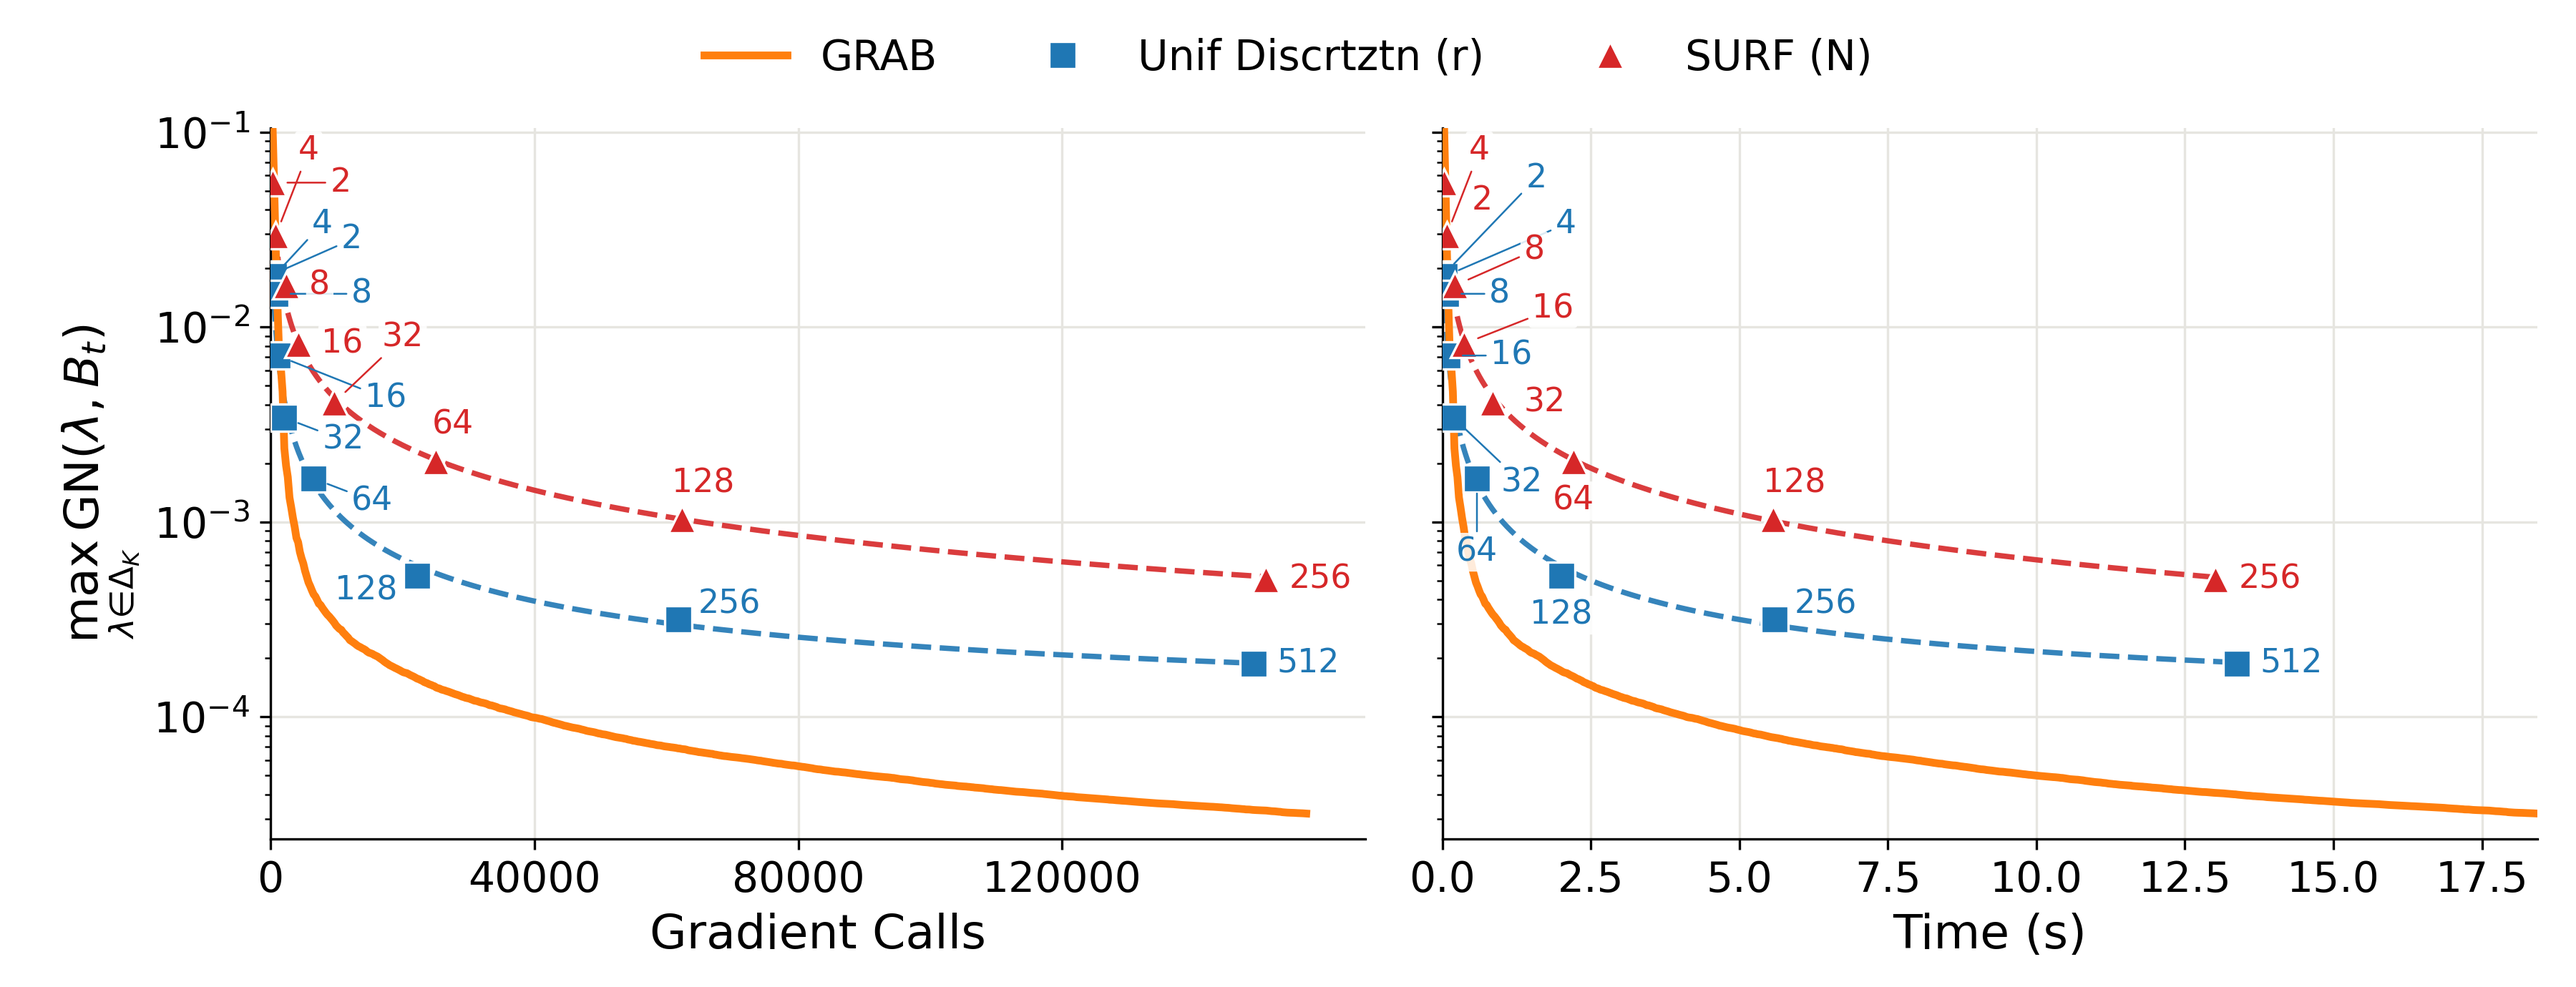
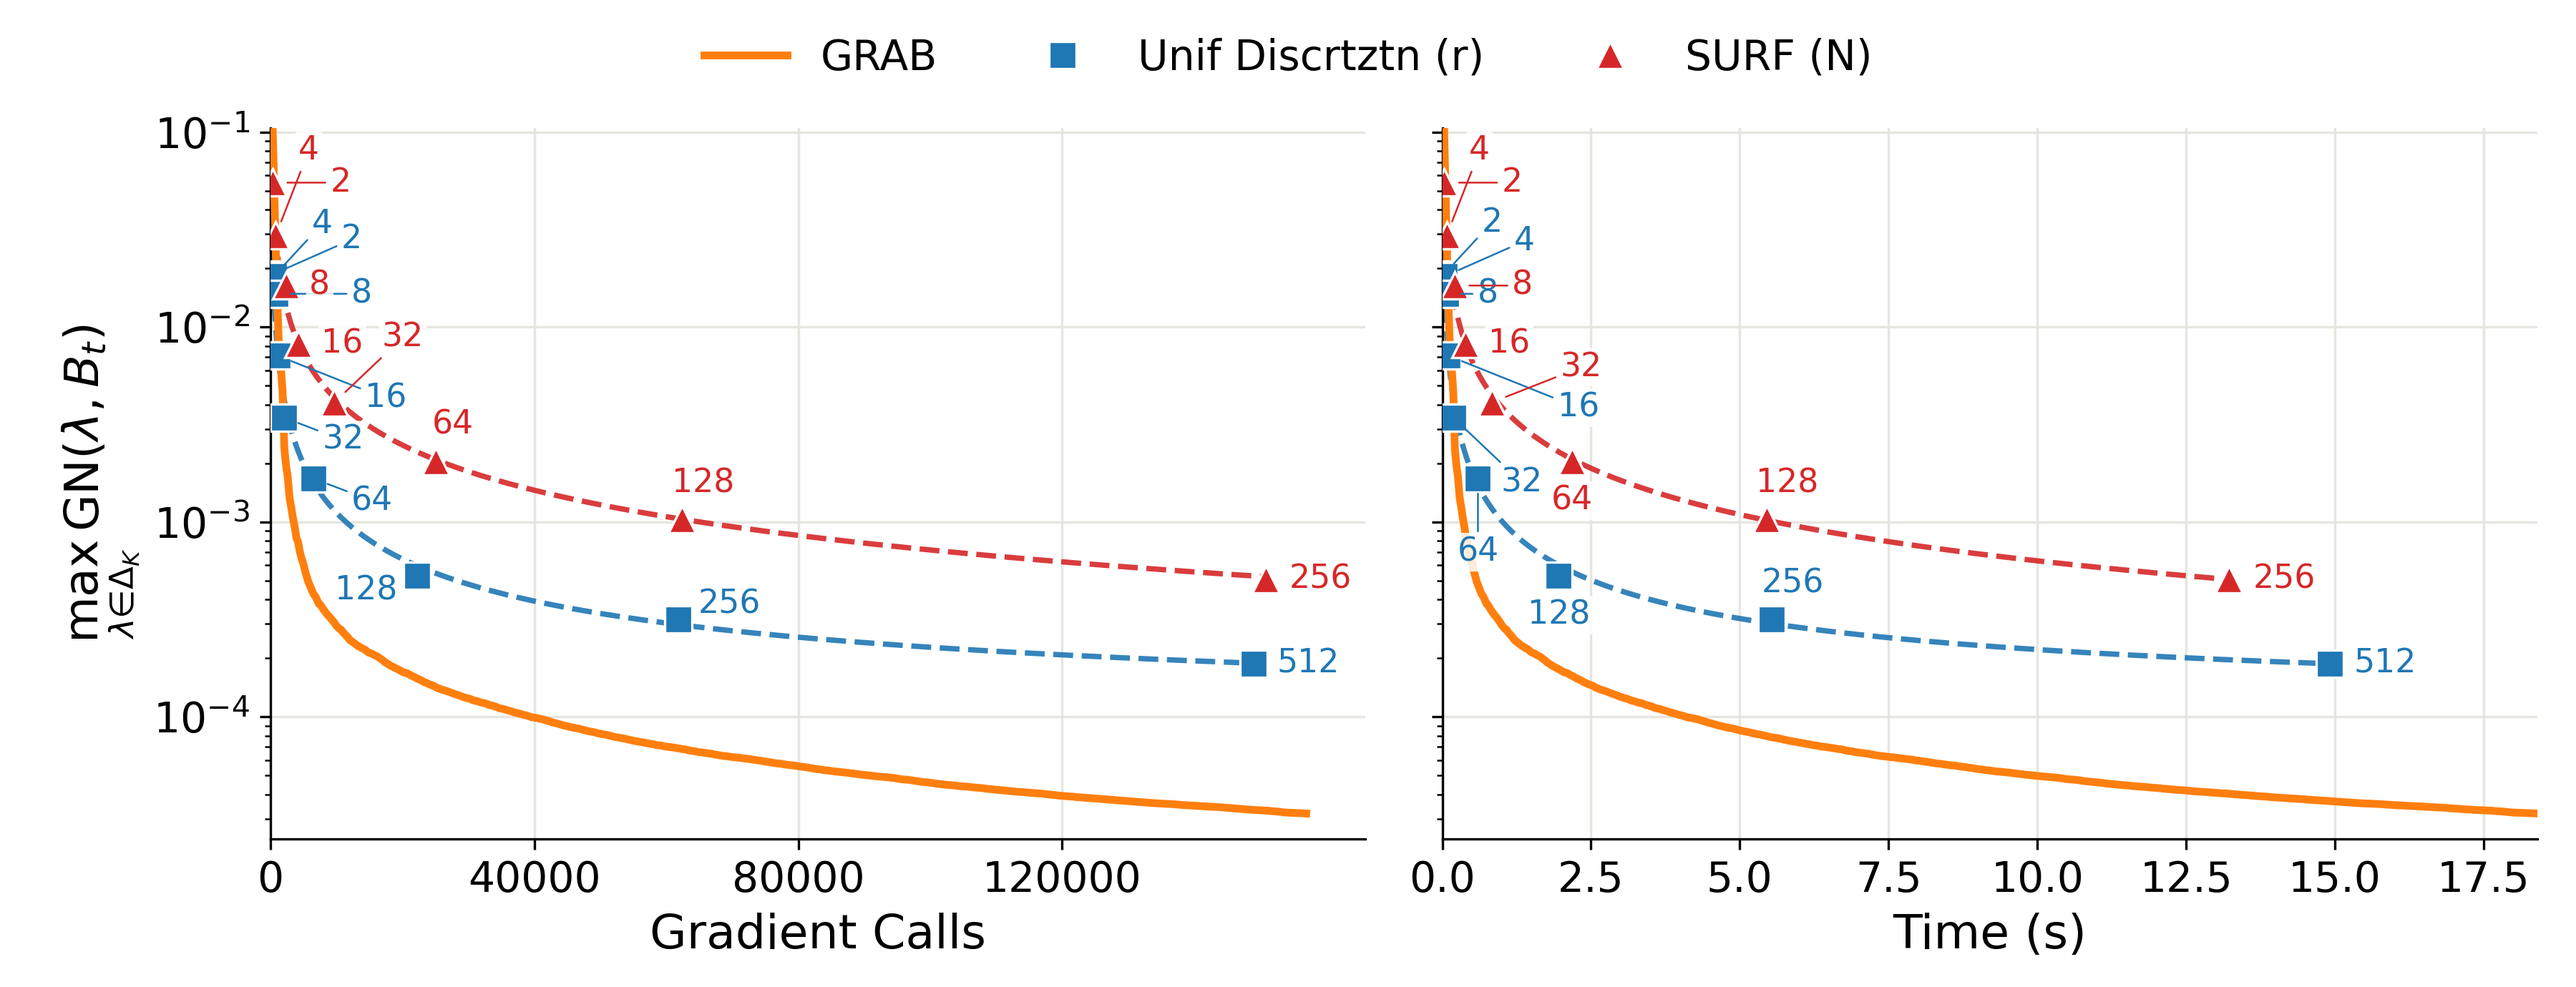
Code hash without comments and docstrings; relaxed-LP stopping described as heuristic; rerun
- identity.code_sha256: SHA-256 of a module's syntax tree without docstrings (comments excluded), used for the
  source hash of stored runs and for the evaluator hash; editing comments or docstrings no longer invalidates runs.
- lambda_solvers: with relaxed LPs, the predicted improvement is evaluated at the working-set maximizer over all
  rows, so it is at most the exact one and the CCP stopping test is a heuristic (the docstring said the opposite).
- bounds / README: the upper bound is valid in exact arithmetic; 1 + 1e-9 is a safeguard against rounding.
- make_bounds_grid: GRAB's step line ends at the last baseline checkpoint (no backward segment at the right end).
- Full rerun: Gradient Calls, GN, selected weights and arrays identical to the previous runs; new single-timed CPU
  times; figures and README numbers updated.

diff --git a/mogym/lambda_solvers.py b/mogym/lambda_solvers.py
@@ -18,10 +18,11 @@ lp_options; the defaults are used everywhere else, e.g. by the reported metric):
   warm_cg   constraint generation starts from the rows of the previous LP whose slacks were nonbasic, with their
             basis statuses (the other rows basic), instead of a cold start; the result is again an optimum;
   relaxed   constraint generation solves the LP on its initial working set only, without checking or adding the
-            other rows.  This is a relaxation: its maximizer need not be optimal for the full LP and its value is at
-            least the full optimum, so a predicted improvement computed from it is at least the exact one; its dual,
-            extended by zeros, still gives a valid upper bound (Proposition 9).  Values are always evaluated
-            exactly on every row.
+            other rows.  This is a relaxation: its maximizer need not be optimal for the full LP, and its dual,
+            extended by zeros, still gives a valid upper bound (Proposition 9).  The returned value is
+            min_i (M lambda)_i at that maximizer over all rows, which is at most the full optimum; a predicted
+            improvement computed from it is therefore at most the exact one, and the CCP stopping test becomes a
+            heuristic that may stop early.  Values are always evaluated exactly on every row.
 """
 import warnings
 from contextlib import contextmanager
@@ -345,7 +346,8 @@ def lp(M, return_dual_bound=False):
 def ccp_ascent(qs, w, maxiter, tau=1e-8):
     """CCP steps from w (Algorithm 2, inner loop): the LP for val(M^c) of the linearizations at the current
     point, then a move to its maximizer, until the predicted improvement delta_c <= tau max{1, phi} or after maxiter
-    LPs.  With exact LPs phi does not decrease; with relaxed LPs (lp_options) a step that lowers phi ends the start.
+    LPs.  With exact LPs phi does not decrease; with relaxed LPs (lp_options) the improvement is computed at the
+    working-set maximizer and is at most delta_c, and a step that lowers phi ends the start.
     Returns (last point, largest phi seen after a step, the point where it was seen, number of LPs)."""
     best, wb = -np.inf, None
     w = np.array(w, float)

diff --git a/mogym/identity.py b/mogym/identity.py
@@ -1,10 +1,11 @@
 """Identity of a stored run: what it was computed from.
 
 A run file records the settings it was started with (`run_spec`, written by the run scripts), the SHA-256 of the
-package source, the package versions, the SHA-256 of the MDP model and the SHA-256 of its .npz arrays.  The run
+package source (its code without comments and docstrings), the package versions, the SHA-256 of the MDP model and the SHA-256 of its .npz arrays.  The run
 scripts reuse a stored run only if all of these match the current ones and the arrays are intact; otherwise they
 stop with an error instead of silently skipping or overwriting.
 """
+import ast
 import hashlib
 import json
 import subprocess
@@ -26,10 +27,22 @@ def file_sha256(path):
     return sha256_bytes(Path(path).read_bytes())
 
 
+def code_sha256(path):
+    """SHA-256 of the code of a Python file: its syntax tree without docstrings (comments are not part of it), so
+    that editing comments or docstrings leaves it unchanged."""
+    tree = ast.parse(Path(path).read_text())
+    for node in ast.walk(tree):
+        if isinstance(node, (ast.Module, ast.ClassDef, ast.FunctionDef, ast.AsyncFunctionDef)) and node.body \
+                and isinstance(node.body[0], ast.Expr) and isinstance(node.body[0].value, ast.Constant) \
+                and isinstance(node.body[0].value.value, str):
+            node.body = node.body[1:] or [ast.Pass()]
+    return sha256_bytes(ast.dump(tree, include_attributes=False).encode())
+
+
 def source_sha256():
     h = hashlib.sha256()
     for f in sorted(PACKAGE.glob("*.py")):
-        h.update(f.name.encode()); h.update(f.read_bytes())
+        h.update(f.name.encode()); h.update(code_sha256(f).encode())
     return h.hexdigest()
 
 

diff --git a/mogym/bounds.py b/mogym/bounds.py
@@ -14,8 +14,9 @@ mogym.metrics) the leaves of largest bound are taken in batches: a leaf bounded 
 n_k, otherwise it is split at the midpoint of its longest edge and both halves are bounded; a leaf keeps the smaller of
 its own bound and its parent's.  The checkpoint stops when the largest bound is at most ((1 + gap) l_k)^2 or its time
 is spent.  Leaves whose bound is at most ((1 + gap) min_k l_k)^2 would never be split again and are dropped.  The
-reported bound is max(sqrt(largest remaining bound), (1 + gap) min_k l_k), times 1 + GUARD against rounding (float64
-Gram matrices, LP duals and vertices); it is non-increasing in k.  The stored leaves are capped; a split adds one
+reported bound is max(sqrt(largest remaining bound), (1 + gap) min_k l_k); it is non-increasing in k.  The construction
+is valid in exact arithmetic; the computations use float64, and the reported bound is multiplied by 1 + GUARD as a
+safeguard against rounding.  The stored leaves are capped; a split adds one
 leaf, so a batch splits at most as many leaves as there are free slots, and a checkpoint stops when nothing is left to
 split or re-bound.
 

diff --git a/mogym/metrics.py b/mogym/metrics.py
@@ -16,7 +16,7 @@ from pathlib import Path
 
 import numpy as np
 
-from . import lambda_solvers as ls
+from . import identity, lambda_solvers as ls
 
 POOL_SEED = 20260910
 POOL_PER_FACE = 500
@@ -42,9 +42,10 @@ def fixed_stratified_weights(K=6, seed=POOL_SEED, per_face=POOL_PER_FACE):
 
 
 def evaluator_sha256():
-    """Fingerprint of the K>2 evaluator: the source of this module and of the LP / CCP code, and the fixed pool."""
-    h = hashlib.sha256(Path(__file__).read_bytes())
-    h.update(Path(ls.__file__).read_bytes())
+    """Fingerprint of the K>2 evaluator: the code of this module and of the LP / CCP code (without comments and
+    docstrings), and the fixed pool."""
+    h = hashlib.sha256(identity.code_sha256(__file__).encode())
+    h.update(identity.code_sha256(ls.__file__).encode())
     h.update(np.ascontiguousarray(fixed_stratified_weights()).tobytes())
     return h.hexdigest()
 

diff --git a/scripts/make_bounds_grid.py b/scripts/make_bounds_grid.py
@@ -63,7 +63,7 @@ for key, xlabel in (("calls", "Gradient Calls"), ("cpu", "Time (s)")):
         x0 = min(x.min(), x_ex.min()) if len(x_ex) else x.min()
         xl, xr = x0 / 1.25, x.max() * 1.1
         g0 = np.flatnonzero(gx[key] <= x0 + 1e-12)[-1]
-        sel = (np.arange(len(curve)) >= g0) & (gx[key] <= x.max() * 1.02)
+        sel = (np.arange(len(curve)) >= g0) & (gx[key] <= x.max() + 1e-12)
         gxs = np.concatenate([[xl], gx[key][sel][1:], [x.max()]]); gys = np.concatenate([gub[sel], [gub[sel][-1]]])
         ax.fill_between(x, ub, lb, where=lb > ub, color=C["ok"], lw=0, zorder=1)
         ax.step(gxs, gys, where="post", color=C["grab"], lw=1.8, zorder=3)

diff --git a/README.md b/README.md
@@ -41,7 +41,7 @@ the finite models; no trajectories are sampled.
 
 The script runs every configuration of both tasks, the Fruit Tree upper bounds and the figures. The runs are serial
 with one numerical thread (about 10 minutes on the machine below, mostly the evaluation of the Uniform runs, which is
-not part of the measured time). The upper bounds are computed afterwards with six processes (about 11 minutes).
+not part of the measured time). The upper bounds are computed afterwards with six processes (about 10 minutes).
 
 Outputs:
 
@@ -80,7 +80,8 @@ python scripts/make_bounds_grid.py fruittree_d6  # K>2: comparison along every U
 The tasks are `fishwood` and `fruittree_d6`; SURF is run for FishWood only.
 
 Each run script accepts `--values` (a subset of r or N) and `--results <dir>`. A stored run is reused only if its
-identity matches: settings, source code, package versions, model and arrays (`mogym/identity.py`); otherwise the
+identity matches: settings, source code (without comments and docstrings), package versions, model and arrays
+(`mogym/identity.py`); otherwise the
 script stops instead of skipping or overwriting the run. The upper bounds are tied in the same way to the arrays of
 the GRAB run, the evaluator and the bound settings, and the figure scripts stop if they do not match.
 `time_repeats.py` reruns every configuration and checks that each repeat reproduces the stored run exactly.
@@ -174,7 +175,9 @@ return a weight with positive GN, so neither the LP certificate nor a global fal
     previous optimum, the 40 smallest at the previous maximizer, the smallest of each column, and the rows of the
     previous LP whose slacks were nonbasic, with their basis statuses), without adding further rows. This is a
     relaxation: its maximizer need not be optimal for the full LP, but its dual still gives a valid upper bound, and φ
-    is always evaluated exactly on every bundle point; a CCP step that lowers φ ends the run.
+    is always evaluated exactly on every bundle point; a CCP step that lowers φ ends the run. The predicted improvement
+    used for early stopping is evaluated at the working-set maximizer over all rows, so it is at most the exact δ_c
+    and the stopping test is a heuristic that may stop early.
   - These options are parameters of `lambda_solvers.CCP` (`lazy`, `lazy_rho`, `screen`, `presolve`, `warm_cg`,
     `relaxed`, `maxiter`, `tau`). The defaults give the plain procedure with exact LPs at every call; the evaluation of
     GN* and the upper bounds always use exact LPs.
@@ -244,8 +247,8 @@ compared in the same way.
     along the checkpoints: at each checkpoint the subsimplices of largest bound are re-bounded with the current
     bundle or split, until the bound is within 1% of the lower estimate or 20 s (six processes) are spent.
   - Subsimplices whose bound is within 1% of the smallest lower estimate are dropped (they cannot matter later); the
-    reported bound is at least that value. It is multiplied by 1 + 1e-9 against floating-point rounding (a numerically
-    certified bound) and is non-increasing over the checkpoints.
+    reported bound is at least that value, and it is non-increasing over the checkpoints. The construction is valid
+    in exact arithmetic; the reported bound is multiplied by 1 + 1e-9 as a safeguard against floating-point rounding.
 
 **Figures.**
 - `<task>_convergence.png`: GRAB in orange (FishWood: exact curve; Fruit Tree: its upper bound as a step line),
@@ -268,17 +271,17 @@ bounds on the ratios of the true GN*.
 
 | Task | GRAB at B | Uniform, lowest point | SURF, lowest point |
 |---|---|---|---|
-| FishWood | 3.1905e-5 at 157,000 calls / 18.4 s | 1.8808e-4 (r=512, 149,032 calls / 13.4 s): 5.89× (5.65× / 4.70×) | 5.0727e-4 (N=256, 150,902 calls / 13.0 s): 15.90× (15.34× / 12.44×) |
+| FishWood | 3.1905e-5 at 157,000 calls / 18.4 s | 1.8808e-4 (r=512, 149,032 calls / 14.9 s): 5.89× (5.65× / 5.08×) | 5.0727e-4 (N=256, 150,902 calls / 13.2 s): 15.90× (15.34× / 12.57×) |
 | Fruit Tree | upper bound 8.1185e-4 at 60,000 calls / 2.8 s | 1.0012e-3 (r=6, 55,026 calls / 2.5 s): ≥ 1.23× (≥ 1.23× / ≥ 1.23×) | – |
 
 - Baseline points that GRAB's curve (FishWood) or upper bound (Fruit Tree) lies below, within the same Gradient
   Calls / the same CPU time: FishWood Uniform 4/9 / 4/9 (r = 64, …, 512; the coarse grids reach their plateau within
   23,102 calls, while GRAB is still descending), SURF 7/8 / 6/8; Fruit Tree Uniform 6/6 / 5/6 (r = 1 at 0.02 s, before
   GRAB's first checkpoint after θ₀).
-- Fruit Tree upper bounds: within 0.9%–4.8% of GRAB's lower estimate at checkpoints 2–121 (median 1.0%).
+- Fruit Tree upper bounds: within 0.9%–4.7% of GRAB's lower estimate at checkpoints 2–121 (median 1.0%).
 - Fruit Tree along every Uniform run within B (`make_bounds_grid.py`), smallest lb(UD)/ub(GRAB) for r = 1, …, 6:
   same Gradient Calls 1.200, 1.190, 1.212, 1.186, 1.089, 1.064; same CPU time (from GRAB's first checkpoint after θ₀,
-  0.024 s; one Uniform checkpoint per r is earlier) 1.200, 1.003, 1.096, 1.186, 1.158, 1.148.
+  0.023 s; one Uniform checkpoint per r is earlier) 1.200, 1.003, 1.096, 1.186, 1.158, 1.148.
 
 The Gradient-Call values are exact. The CPU times depend on the machine.
 
